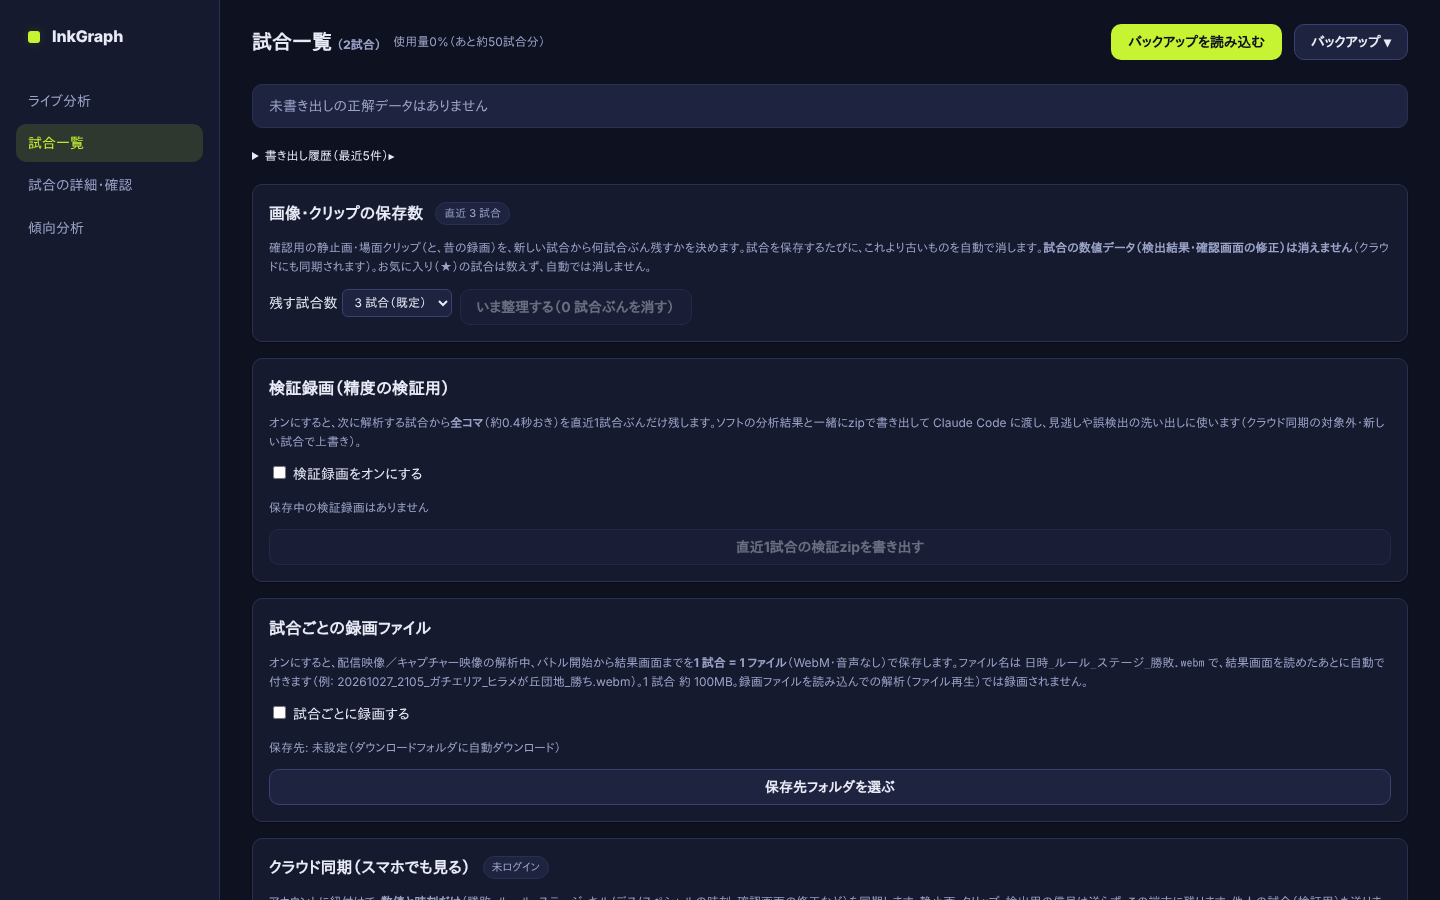
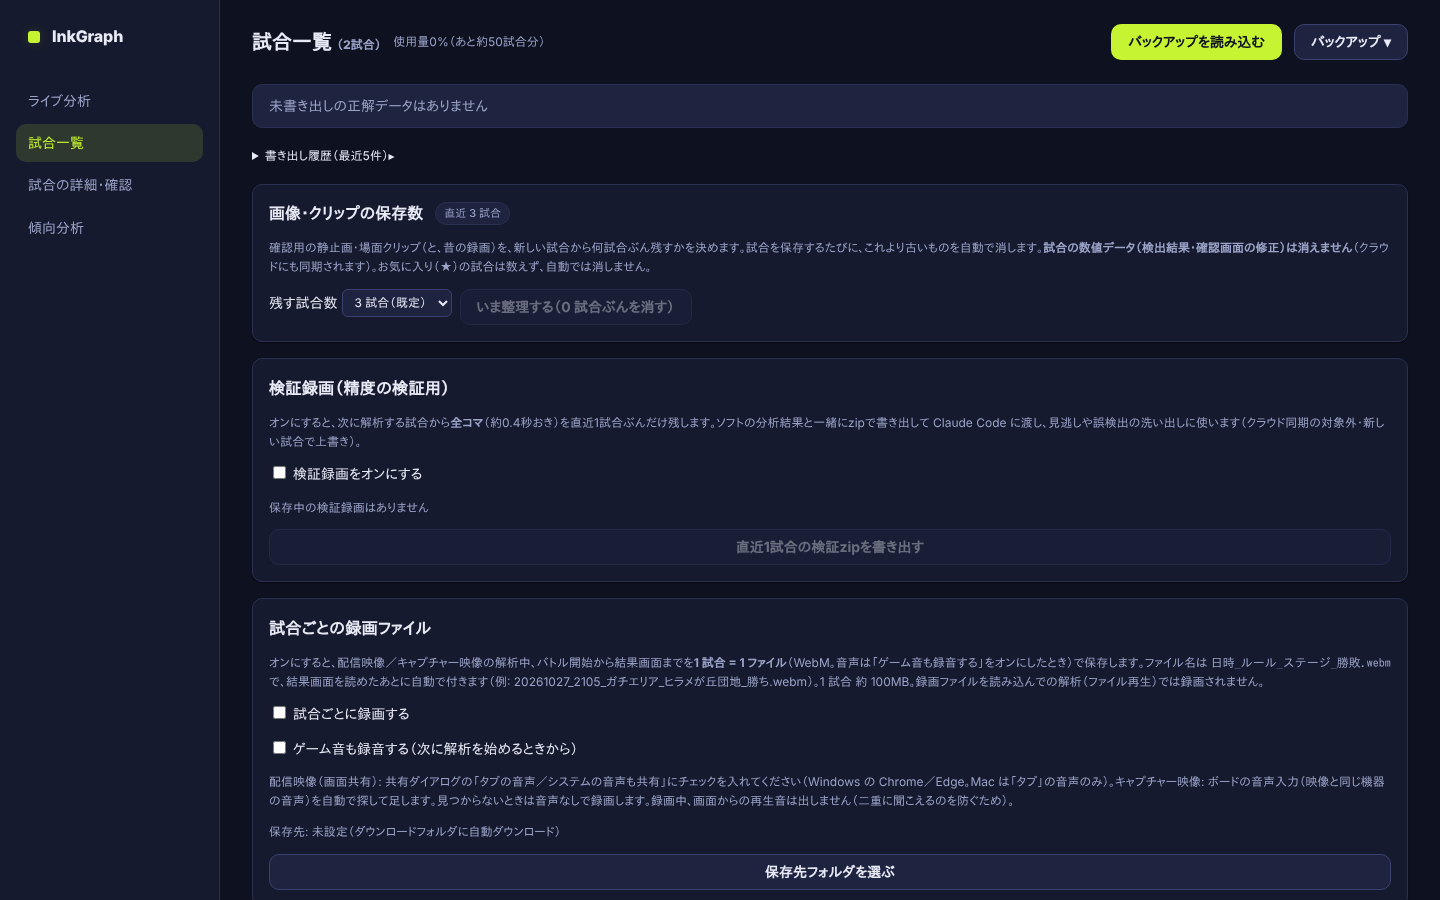
試合録画にゲーム音を追加 (D68追記)
Claude-Session: https://claude.ai/code/session_018zsqgbHNLDpb8cVTBpk5SR

Changed region(s): [[0.1875, 0.8089, 0.9688, 1.0], [0.1875, 0.7156, 0.9688, 0.7778]]

diff --git a/web/src/session.js b/web/src/session.js
@@ -6,7 +6,7 @@ import { selectClips } from './clips.js';
 import AnalyzerWorker from './worker.js?worker';
 import { CaptureGuard } from './capture_guard.js';
 import * as detectParams from './detect_params.js';
-import { MatchRecorder, videoSupported, getVideoOn, videoFilename, saveVideo } from './video_rec.js';
+import { MatchRecorder, videoSupported, getVideoOn, getAudioOn, videoFilename, saveVideo } from './video_rec.js';
 export async function listDevices() {
   try { const s = await navigator.mediaDevices.getUserMedia({ video: true }); s.getTracks().forEach(t => t.stop()); } catch (e) { /* permission denied */ }
   return (await navigator.mediaDevices.enumerateDevices()).filter(d => d.kind === 'videoinput');
@@ -19,15 +19,24 @@ export class Session {
     this.guard = new CaptureGuard();
   }
   async start({ mode, deviceId, file, fast = false, owner = 'self' }) {
+    const wantAudio = getVideoOn() && getAudioOn();
     this.mode = mode; this.owner = owner || 'self'; this.fast = fast; this.sessionId = new Date().toISOString();
     if (mode === 'stream') {
       this.sourceName = '配信映像（画面共有）';
-      this.stream = await navigator.mediaDevices.getDisplayMedia({ video: { width: { ideal: 1920 }, height: { ideal: 1080 }, frameRate: { ideal: 30 } }, audio: false });
-      this.video.srcObject = this.stream; await this.video.play(); this.srcH = this.stream.getVideoTracks()[0]?.getSettings?.()?.height || 1080; this.t0 = performance.now();
+      this.stream = await navigator.mediaDevices.getDisplayMedia({ video: { width: { ideal: 1920 }, height: { ideal: 1080 }, frameRate: { ideal: 30 } }, audio: wantAudio });
+      this.video.srcObject = this.stream; this.video.muted = true; await this.video.play(); this.srcH = this.stream.getVideoTracks()[0]?.getSettings?.()?.height || 1080; this.t0 = performance.now();
     } else if (mode === 'device') {
       this.sourceName = 'キャプチャー映像';
       this.stream = await navigator.mediaDevices.getUserMedia({ video: { deviceId: deviceId ? { exact: deviceId } : undefined, width: { ideal: 1920 }, height: { ideal: 1080 }, frameRate: { ideal: 30 } }, audio: false });
-      this.video.srcObject = this.stream; await this.video.play(); this.srcH = this.stream.getVideoTracks()[0]?.getSettings?.()?.height || 1080; this.t0 = performance.now();
+      // D68: ゲーム音。キャプチャーボードの音声入力（映像と同じ groupId）を足す。見つからなければ音声なしで続ける
+      if (wantAudio) {
+        try {
+          const gid = this.stream.getVideoTracks()[0]?.getSettings?.()?.groupId, ins = (await navigator.mediaDevices.enumerateDevices()).filter(d => d.kind === 'audioinput');
+          const ain = ins.find(d => gid && d.groupId === gid) || ins.find(d => /cam ?link|capture|elgato|av ?io|hdmi|usb/i.test(d.label));
+          if (ain) (await navigator.mediaDevices.getUserMedia({ audio: { deviceId: { exact: ain.deviceId }, echoCancellation: false, noiseSuppression: false, autoGainControl: false } })).getAudioTracks().forEach(t => this.stream.addTrack(t));
+        } catch (e) { console.warn('audio device failed', e); }
+      }
+      this.video.srcObject = this.stream; this.video.muted = true; await this.video.play(); this.srcH = this.stream.getVideoTracks()[0]?.getSettings?.()?.height || 1080; this.t0 = performance.now();
     } else {
       this.sourceName = file ? file.name : 'キャプチャー映像';
       this.video.srcObject = null; this.video.src = URL.createObjectURL(file); this.video.muted = true; await new Promise(r => this.video.onloadedmetadata = r); this.srcH = this.video.videoHeight;

diff --git a/web/src/main.js b/web/src/main.js
@@ -1755,12 +1755,15 @@ PAGES.list = async () => {
     const sup = VR.videoSupported(), on = VR.getVideoOn(), dir = await db.getVideoDir().catch(() => null), canPick = typeof window.showDirectoryPicker === 'function';
     const perm = dir ? await dir.queryPermission?.({ mode: 'readwrite' }).catch(() => 'prompt') : null;
     el.innerHTML = `<h3>試合ごとの録画ファイル</h3>
-      <p class="muted">オンにすると、配信映像／キャプチャー映像の解析中、バトル開始から結果画面までを<strong>1 試合 = 1 ファイル</strong>（WebM・音声なし）で保存します。ファイル名は <code>日時_ルール_ステージ_勝敗.webm</code> で、結果画面を読めたあとに自動で付きます（例: 20261027_2105_ガチエリア_ヒラメが丘団地_勝ち.webm）。1 試合 約 100MB。録画ファイルを読み込んでの解析（ファイル再生）では録画されません。</p>
+      <p class="muted">オンにすると、配信映像／キャプチャー映像の解析中、バトル開始から結果画面までを<strong>1 試合 = 1 ファイル</strong>（WebM。音声は「ゲーム音も録音する」をオンにしたとき）で保存します。ファイル名は <code>日時_ルール_ステージ_勝敗.webm</code> で、結果画面を読めたあとに自動で付きます（例: 20261027_2105_ガチエリア_ヒラメが丘団地_勝ち.webm）。1 試合 約 100MB。録画ファイルを読み込んでの解析（ファイル再生）では録画されません。</p>
       ${sup ? '' : '<p class="muted">このブラウザは録画（MediaRecorder）に対応していません。</p>'}
       <label class="row"><input type="checkbox" id="video-on" ${on ? 'checked' : ''} ${sup ? '' : 'disabled'}> 試合ごとに録画する</label>
+      <label class="row"><input type="checkbox" id="video-audio" ${VR.getAudioOn() ? 'checked' : ''} ${sup ? '' : 'disabled'}> ゲーム音も録音する（次に解析を始めるときから）</label>
+      <p class="muted">配信映像（画面共有）: 共有ダイアログの「タブの音声／システムの音声も共有」にチェックを入れてください（Windows の Chrome／Edge。Mac は「タブ」の音声のみ）。キャプチャー映像: ボードの音声入力（映像と同じ機器の音声）を自動で探して足します。見つからないときは音声なしで録画します。録画中、画面からの再生音は出しません（二重に聞こえるのを防ぐため）。</p>
       <p class="muted" id="video-dir">保存先: ${dir ? esc(dir.name) + (perm === 'granted' ? '（書き込み許可済み）' : '（許可が切れています。「保存先を選ぶ」で選び直してください）') : '未設定（ダウンロードフォルダに自動ダウンロード）'}</p>
       <button class="btn" id="video-pick" type="button" ${canPick ? '' : 'disabled'}>${dir ? '保存先を選び直す' : '保存先フォルダを選ぶ'}</button>${canPick ? '' : '<span class="muted"> このブラウザはフォルダ指定に未対応（Chrome／Edge なら可）。ダウンロードで保存します。</span>'}`;
     $('#video-on', el).onchange = e => VR.setVideoOn(e.target.checked);
+    $('#video-audio', el).onchange = e => VR.setAudioOn(e.target.checked);
     $('#video-pick', el).onclick = async () => { try { const h = await window.showDirectoryPicker({ mode: 'readwrite' }); await db.setVideoDir(h); await updateVideoPanel(); } catch { /* cancelled */ } };
   };
   await updateVideoPanel();

diff --git a/web/src/video_rec.js b/web/src/video_rec.js
@@ -15,7 +15,7 @@ export function videoFilename(rec, ext = 'webm') {
   return parts.filter(Boolean).join('_') + '.' + ext;
 }
 
-const MIMES = ['video/webm;codecs=vp9', 'video/webm;codecs=vp8', 'video/webm'];
+const MIMES = ['video/webm;codecs=vp9,opus', 'video/webm;codecs=vp8,opus', 'video/webm;codecs=vp9', 'video/webm;codecs=vp8', 'video/webm'];
 export const videoSupported = () => typeof MediaRecorder !== 'undefined';
 export function pickMime() { if (!videoSupported()) return null; return MIMES.find(m => MediaRecorder.isTypeSupported?.(m)) || ''; }
 export const VIDEO_BPS = 3_000_000; // 3Mbps ≒ 5 分で約 110MB
@@ -24,7 +24,7 @@ export const VIDEO_BPS = 3_000_000; // 3Mbps ≒ 5 分で約 110MB
 export class MatchRecorder {
   constructor(stream, { bps = VIDEO_BPS } = {}) {
     const mimeType = pickMime();
-    this.rec = new MediaRecorder(stream, { ...(mimeType ? { mimeType } : {}), videoBitsPerSecond: bps });
+    this.rec = new MediaRecorder(stream, { ...(mimeType ? { mimeType } : {}), videoBitsPerSecond: bps, ...(stream.getAudioTracks?.().length ? { audioBitsPerSecond: 128_000 } : {}) });
     this.mime = this.rec.mimeType || mimeType || 'video/webm'; this.chunks = []; this.state = 'idle';
     this.rec.ondataavailable = e => { if (e.data && e.data.size) this.chunks.push(e.data); };
     this.done = new Promise(res => { this.rec.onstop = () => { this.state = 'stopped'; res(new Blob(this.chunks, { type: this.mime.split(';')[0] })); }; });
@@ -36,6 +36,8 @@ export class MatchRecorder {
 // ---- 保存先 ----
 const KEY = 'inkgraph.videoRec';
 export const getVideoOn = () => { try { return localStorage.getItem(KEY) === '1'; } catch { return false; } };
+export const getAudioOn = () => { try { return localStorage.getItem(KEY + '.audio') === '1'; } catch { return false; } };
+export const setAudioOn = on => { try { localStorage.setItem(KEY + '.audio', on ? '1' : '0'); } catch { /* ignore */ } };
 export const setVideoOn = on => { try { localStorage.setItem(KEY, on ? '1' : '0'); } catch { /* ignore */ } };
 
 /** 保存先フォルダ（File System Access API）。ハンドルは IndexedDB の learn ストア（key: videoDir）に持つ。使えないときはダウンロード */

diff --git a/docs/DECISIONS.md b/docs/DECISIONS.md
@@ -787,8 +787,9 @@
 - 今後：フレームから Claude Code が見逃し候補を出す手順（突合ツール）。1 試合ずつ録画ファイルに分ける機能（D68）。
 
 ## D68 (2026-10-27) 試合ごとの録画ファイル（ルール・ステージ入りの名前で 1 試合 1 ファイル）
-- 機能：リスト画面の「試合ごとの録画ファイル」パネルでオンにすると、**配信映像／キャプチャー映像**の解析中、バトル開始（`battle_start`）から結果画面（`battle_end` の 25 秒後）までを `MediaRecorder` で録り、1 試合 = 1 ファイル（WebM・音声なし・3Mbps ≒ 5 分で約 110MB）で保存する。録画ファイルを読み込んでの解析（file モード）では録画しない。
+- 機能：リスト画面の「試合ごとの録画ファイル」パネルでオンにすると、**配信映像／キャプチャー映像**の解析中、バトル開始（`battle_start`）から結果画面（`battle_end` の 25 秒後）までを `MediaRecorder` で録り、1 試合 = 1 ファイル（WebM・3Mbps ≒ 5 分で約 110MB）で保存する。録画ファイルを読み込んでの解析（file モード）では録画しない。
 - ファイル名：`日時_ルール_ステージ_勝敗.webm`（例 `20261027_2105_ガチエリア_ヒラメが丘団地_勝ち.webm`。regular 以外のマッチ種別は勝敗の前に入る）。名前は**試合が終わって結果画面を読めたあと**に決まる（録画自体は結果画面が出る前から始まっているため）。読めなかった項目は「ルール不明／ステージ不明／勝敗不明」。使えない文字は除く。日時は解析開始の時刻＋バトル開始の秒数（試合の始まった時刻）。`rec.videoFile` に名前を持つ（クラウド同期の対象外）。
 - 保存先：Chrome／Edge の File System Access API で**保存先フォルダ**を選ぶ（ハンドルは IndexedDB の `learn` ストアの `videoDir`）。再読み込み後は書き込み許可が切れるので、パネルの「保存先を選び直す」で再許可する（許可が無い間・非対応ブラウザは、ダウンロードで保存）。メモリには 1 試合ぶん（約 100MB）を持つ。ライブ画面のイベント一覧に「録画を保存: …」と出る。
 - 動作：バトル開始で録画開始 → 試合が捨てられた（`battle_discard`／ガードで保存しない判定）ら録画も捨てる → 試合が保存されるときに先頭の録画と対にして保存（先入れ先出し）。
 - 検証：`web/tools/video_rec_check.mjs`（名前付け 4 件・パネル 2 件・実ブラウザで canvas を MediaRecorder で WebM にする・ダウンロード保存・ページエラー無し、計 9 件 PASS）。`session_keepalive_check`・`stream_capture_check`・`clip_ui_check`・`cloud_ui_check` も PASS。**実際のキャプチャー映像での通し（バトルをまたいだ録画・フォルダ保存）は未確認。**
+- 音声（D68 追記）：パネルの「ゲーム音も録音する」（`inkgraph.videoRec.audio`）。画面共有（stream）は `getDisplayMedia` の `audio` を要求（共有ダイアログで音声共有にチェックが要る。Windows の Chrome／Edge はシステム音、Mac はタブ音のみ）。キャプチャー映像（device）は映像と同じ `groupId` の音声入力を探して `getUserMedia` で足す（無ければ名前が capture／Elgato／AVerMedia／HDMI／USB に合う入力、それも無ければ音声なしで続行）。エコー・ノイズ抑制・自動音量は切る。コーデックは opus（128kbps）。録画中に二重に聞こえないよう、解析用の `<video>` は常にミュート。次に解析を始めるときから有効。`video_rec_check` に音声つき録画と設定保存を追加（計 11 件 PASS）。実際のキャプチャーボードの音声入力の自動検出は実機で未確認。
